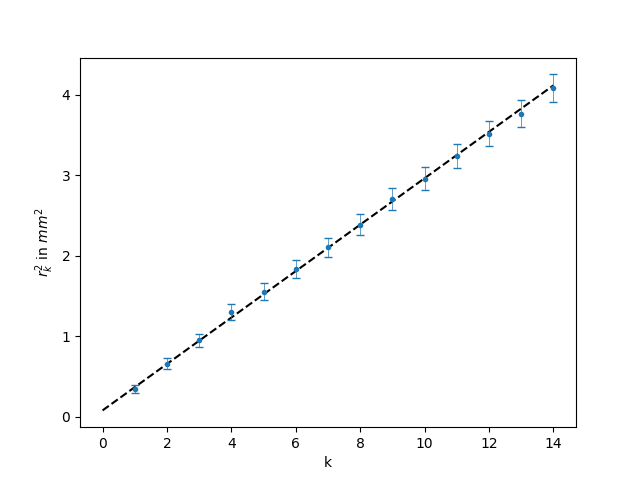
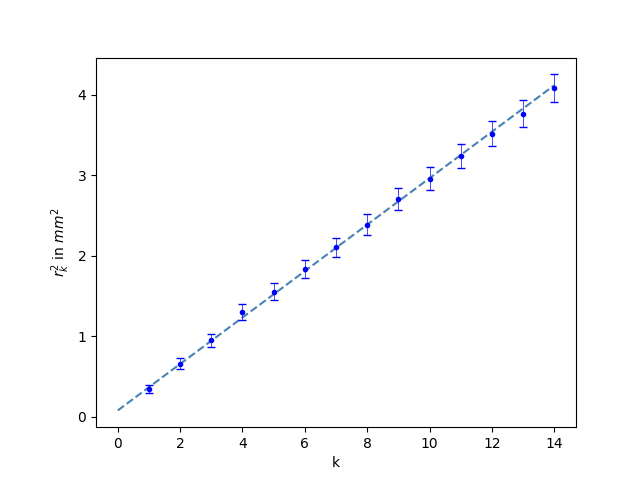
updated plotting readme

diff --git a/readme_files/plotting.md b/readme_files/plotting.md
@@ -96,17 +96,53 @@ If you input more than 5 y-value column names, the plot colors will not be uniqu
   <img src="./images/plot_T4_pV_korr.png" width="400" title="constant plot example" alt="constant plot example">
 </p>
 
-### linear plot example *(old colors)*
+### linear plot example
 
 <p align="left">
   <img src="./images/plot_O6_bhg.png" width="400" title="linear plot example" alt="linear plot example">
 </p>
+
+<details><summary>parameters</summary>
+
+``` // opening
+RAW_DATA_PATH = "data/Grundpraktikum/O6_bhg.csv"
+ERRORBAR_PLOT_PATH = "data/graphics/plot_O6_bhg.png"
+ERRORBAR_PLOT_X_COLUMN = 'k'
+ERRORBAR_PLOT_X_ERROR_COLUMN = ""
+ERRORBAR_PLOT_Y_COLUMN = "y"
+ERRORBAR_PLOT_Y_ERROR_COLUMN = "uy"
+ERRORBAR_PLOT_TITLE = ""
+ERRORBAR_PLOT_XLABEL = "k"
+ERRORBAR_PLOT_YLABEL = "$r_k^2$ in $mm^2$"
+ERRORBAR_PLOT_XTICKS_NUMBER = 8
+ERRORBAR_PLOT_PLOTLABELS = ""
+ERRORBAR_PLOT_MODEL = "linear"
+```
+</details>
 
 ### multiple all linear plots example
 
 <p align="left">
   <img src="./images/plot_M12_kg.png" width="400" title="multiple all linear plots example" alt="multiple all linear plots example">
 </p>
+
+<details><summary>parameters</summary>
+
+``` // opening
+RAW_DATA_PATH = "data/Grundpraktikum/M12_kg.csv"
+ERRORBAR_PLOT_PATH = "data/graphics/plot_M12_kg.png"
+ERRORBAR_PLOT_X_COLUMN = 'n'
+ERRORBAR_PLOT_X_ERROR_COLUMN = ""
+ERRORBAR_PLOT_Y_COLUMN = ["f_1kg", "f_2kg", "f_3kg"]
+ERRORBAR_PLOT_Y_ERROR_COLUMN = ["u_1kg", "u_2kg", "u_3kg"]
+ERRORBAR_PLOT_TITLE = ""
+ERRORBAR_PLOT_XLABEL = "n"
+ERRORBAR_PLOT_YLABEL = "Frequenzen $f_n$ in Hz für 1kg/2kg/3kg"
+ERRORBAR_PLOT_XTICKS_NUMBER = 8
+ERRORBAR_PLOT_PLOTLABELS = ["1kg", "2kg", "3kg"]
+ERRORBAR_PLOT_MODEL = "linear"
+```
+</details>
 
 ### multiple linear/none plots example
 
@@ -116,7 +152,7 @@ If you input more than 5 y-value column names, the plot colors will not be uniqu
 
 <details><summary>parameters</summary>
 
-``` // opening 
+``` // opening
 RAW_DATA_PATH = "data/Grundpraktikum/E5_UI.csv"
 ERRORBAR_PLOT_PATH = "data/graphics/plot_E5_UI.png"
 ERRORBAR_PLOT_X_COLUMN = ["I_EoK", "I_EmK", "I_ZoK", "I_ZmK"]
